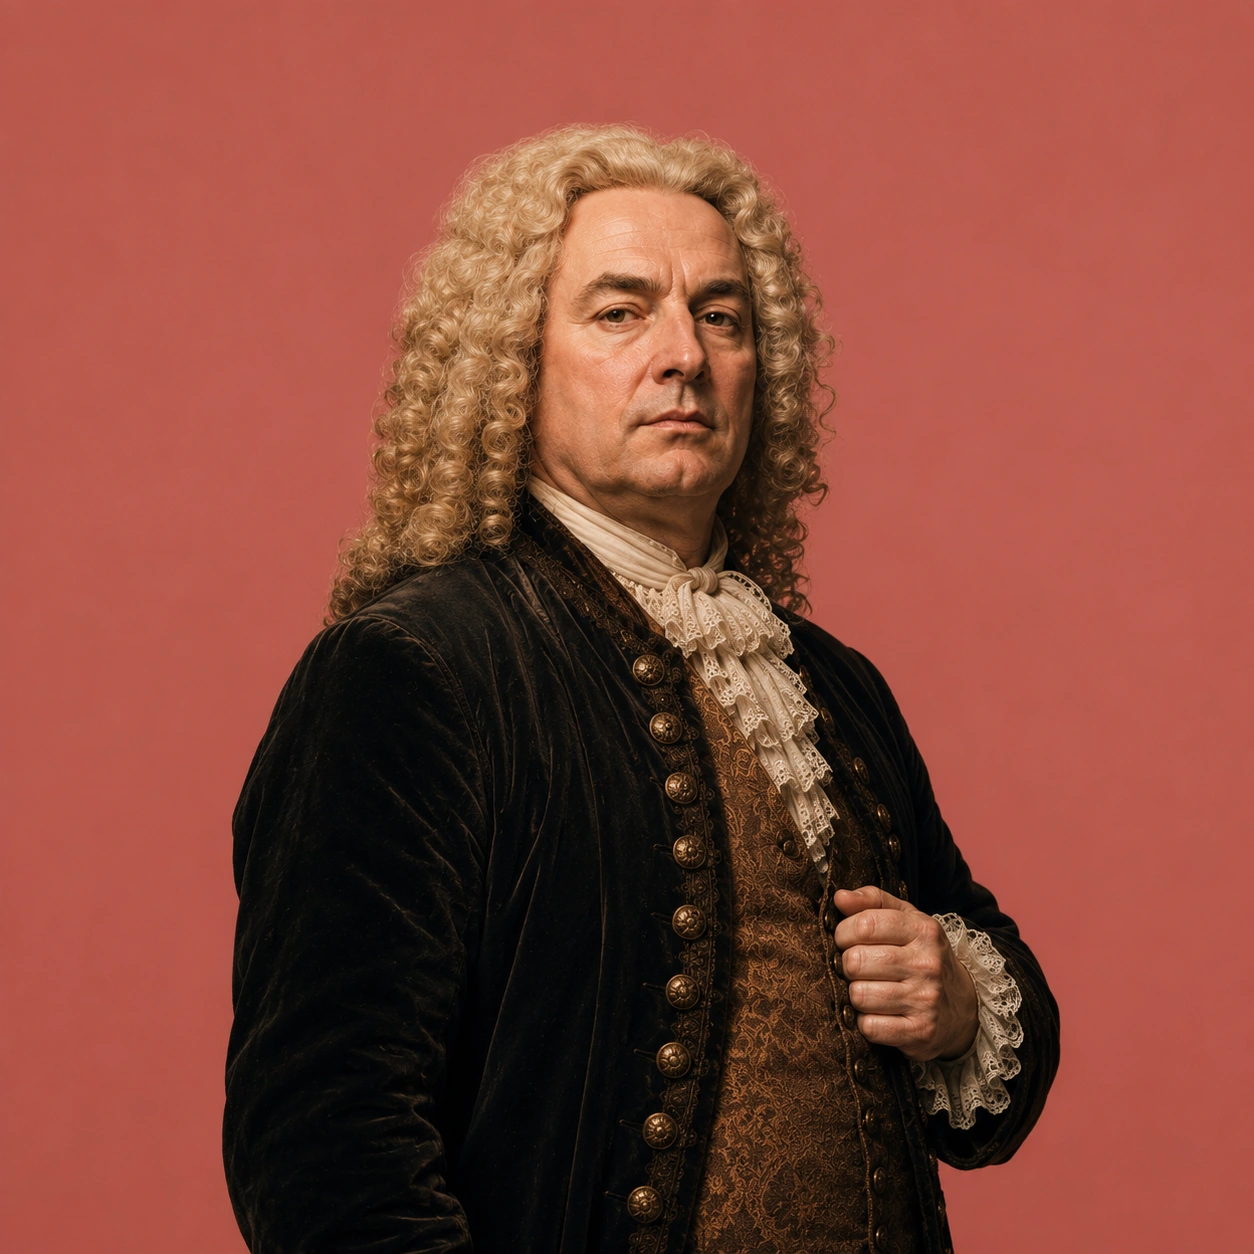
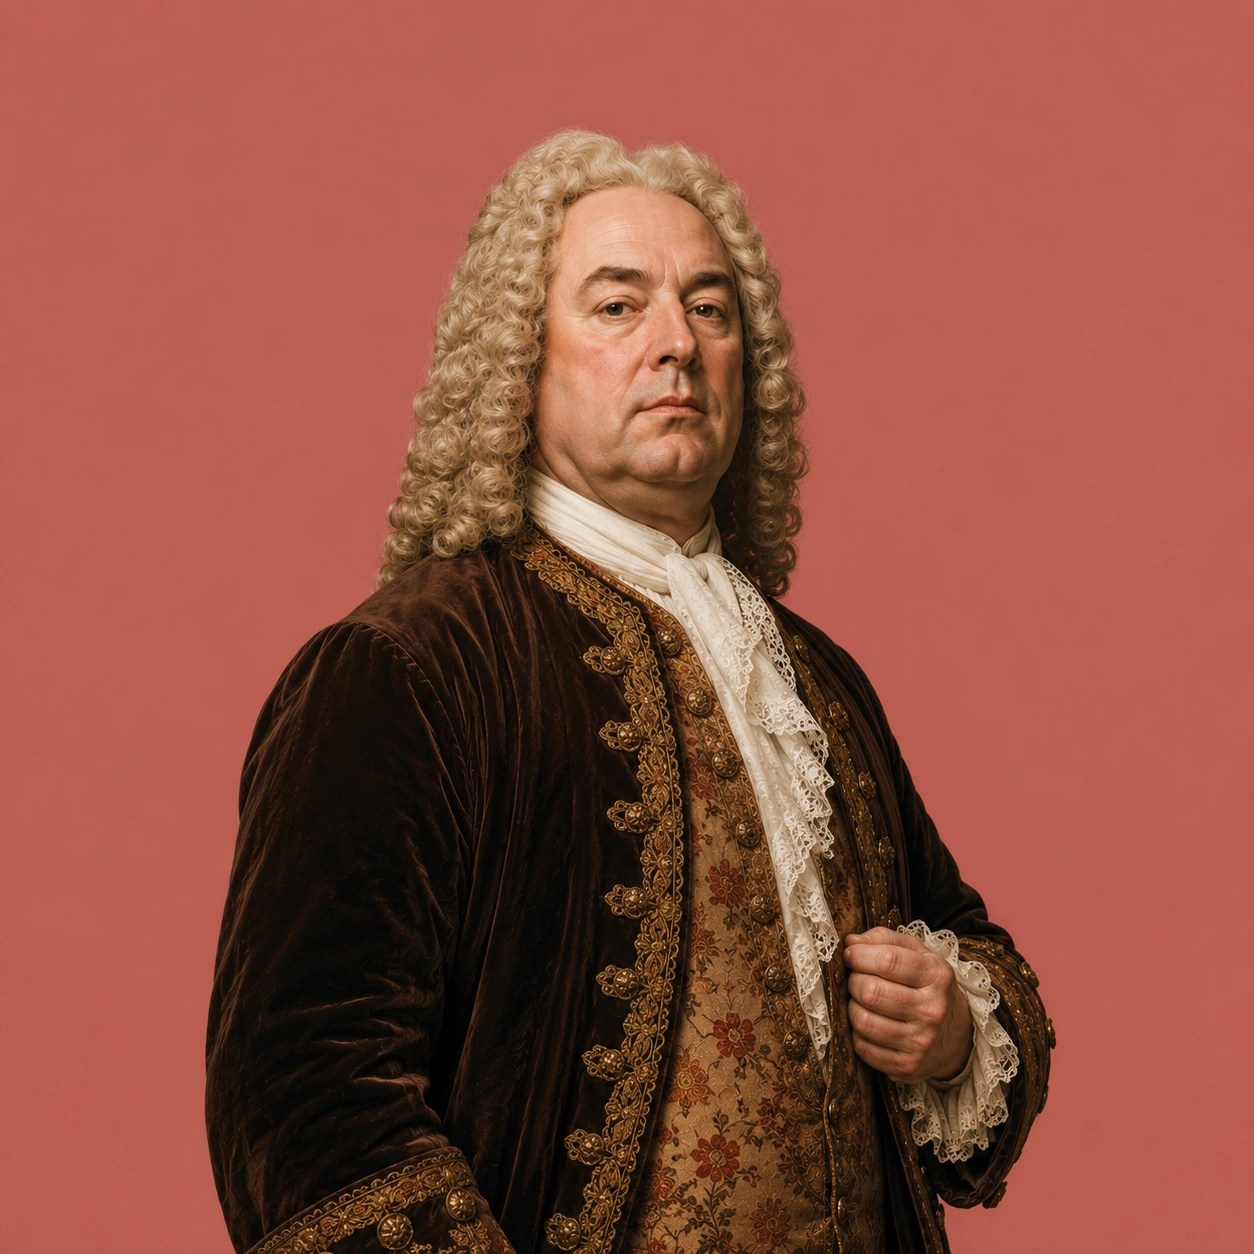
Fix Bach Handel photos and remove red tint

Changed region(s): [[0.1555, 0.0933, 0.8708, 1.0], [0.3732, 0.7775, 0.4043, 0.8397]]

diff --git a/nuclei/barocco/index.html b/nuclei/barocco/index.html
@@ -45,7 +45,7 @@
                 </a>
 
                 <a class="barocco-tile" href="argomenti/il-barocco-in-coordinate/index.html" style="--blink-delay: 1.2s">
-                    <span class="barocco-tile__face barocco-tile__face--photo" style="background-color: #bf7366; background-image: url('../../assets/vivaldi-tile-photo.webp'); background-position: center center; background-size: cover; background-repeat: no-repeat;">
+                    <span class="barocco-tile__face barocco-tile__face--photo" style="background-image: url('../../assets/vivaldi-tile-photo.webp'); background-position: center center; background-size: cover; background-repeat: no-repeat;">
                         <span class="barocco-tile__textbody">
                             <span class="barocco-tile__textbody-title">Il concerto barocco:<br>Le Quattro Stagioni</span>
                             <span class="barocco-tile__textbody-sub">Ascolto · Musica programmatica</span>
@@ -60,7 +60,7 @@
                 </a>
 
                 <a class="barocco-tile" href="argomenti/il-barocco-in-coordinate/index.html" style="--blink-delay: 3.8s">
-                    <span class="barocco-tile__face barocco-tile__face--photo" style="background-color: #ba6254; background-image: url('../../assets/monteverdi-tile-photo.webp'); background-position: center center; background-size: cover; background-repeat: no-repeat;">
+                    <span class="barocco-tile__face barocco-tile__face--photo" style="background-image: url('../../assets/monteverdi-tile-photo.webp'); background-position: center center; background-size: cover; background-repeat: no-repeat;">
                         <span class="barocco-tile__textbody">
                             <span class="barocco-tile__textbody-title">I registri vocali<br>nel Melodramma</span>
                             <span class="barocco-tile__textbody-sub">Ascolto · Voci nell'opera</span>
@@ -75,7 +75,7 @@
                 </a>
 
                 <a class="barocco-tile" href="argomenti/il-barocco-in-coordinate/index.html" style="--blink-delay: 5.0s">
-                    <span class="barocco-tile__face barocco-tile__face--photo" style="background-color: #bc5f53; background-image: url('../../assets/bach-tile-photo.webp'); background-position: center center; background-size: cover; background-repeat: no-repeat;">
+                    <span class="barocco-tile__face barocco-tile__face--photo" style="background-image: url('../../assets/bach-tile-photo.webp'); background-position: center center; background-size: cover; background-repeat: no-repeat;">
                         <span class="barocco-tile__textbody">
                             <span class="barocco-tile__textbody-title">La fuga:<br>caccia al tema</span>
                             <span class="barocco-tile__textbody-sub">Analisi · Contrappunto</span>
@@ -90,7 +90,7 @@
                 </a>
 
                 <a class="barocco-tile" href="argomenti/il-barocco-in-coordinate/index.html" style="--blink-delay: 8.4s">
-                    <span class="barocco-tile__face barocco-tile__face--photo" style="background-color: #be675b; background-image: url('../../assets/haendel-tile-photo.webp'); background-position: center center; background-size: cover; background-repeat: no-repeat;">
+                    <span class="barocco-tile__face barocco-tile__face--photo" style="background-image: url('../../assets/haendel-tile-photo.webp'); background-position: center center; background-size: cover; background-repeat: no-repeat;">
                         <span class="barocco-tile__textbody">
                             <span class="barocco-tile__textbody-title">Il Messia:<br>l&#x27;oratorio del secolo</span>
                             <span class="barocco-tile__textbody-sub">Ascolto · Musica corale</span>

diff --git a/css/barocco-bento.css b/css/barocco-bento.css
@@ -211,8 +211,8 @@ body[data-current-nucleus="barocco"] .brand--wordmark {
     background-size: cover;
     background-position: center top;
     animation: none;
-    background-color: rgba(195, 122, 107, 0.22);
-    background-blend-mode: multiply;
+    background-color: transparent;
+    background-blend-mode: normal;
 }
 .barocco-tile__face--photo::after {
     content: '';
@@ -258,7 +258,7 @@ body[data-current-nucleus="barocco"] .brand--wordmark {
 }
 .barocco-tile:hover .barocco-tile__face--photo {
     animation: none;
-    background-color: #D8A89C;
+    background-color: transparent;
     filter: none;
 }
 .barocco-tile:hover .barocco-tile__face--photo .barocco-tile__textbody {